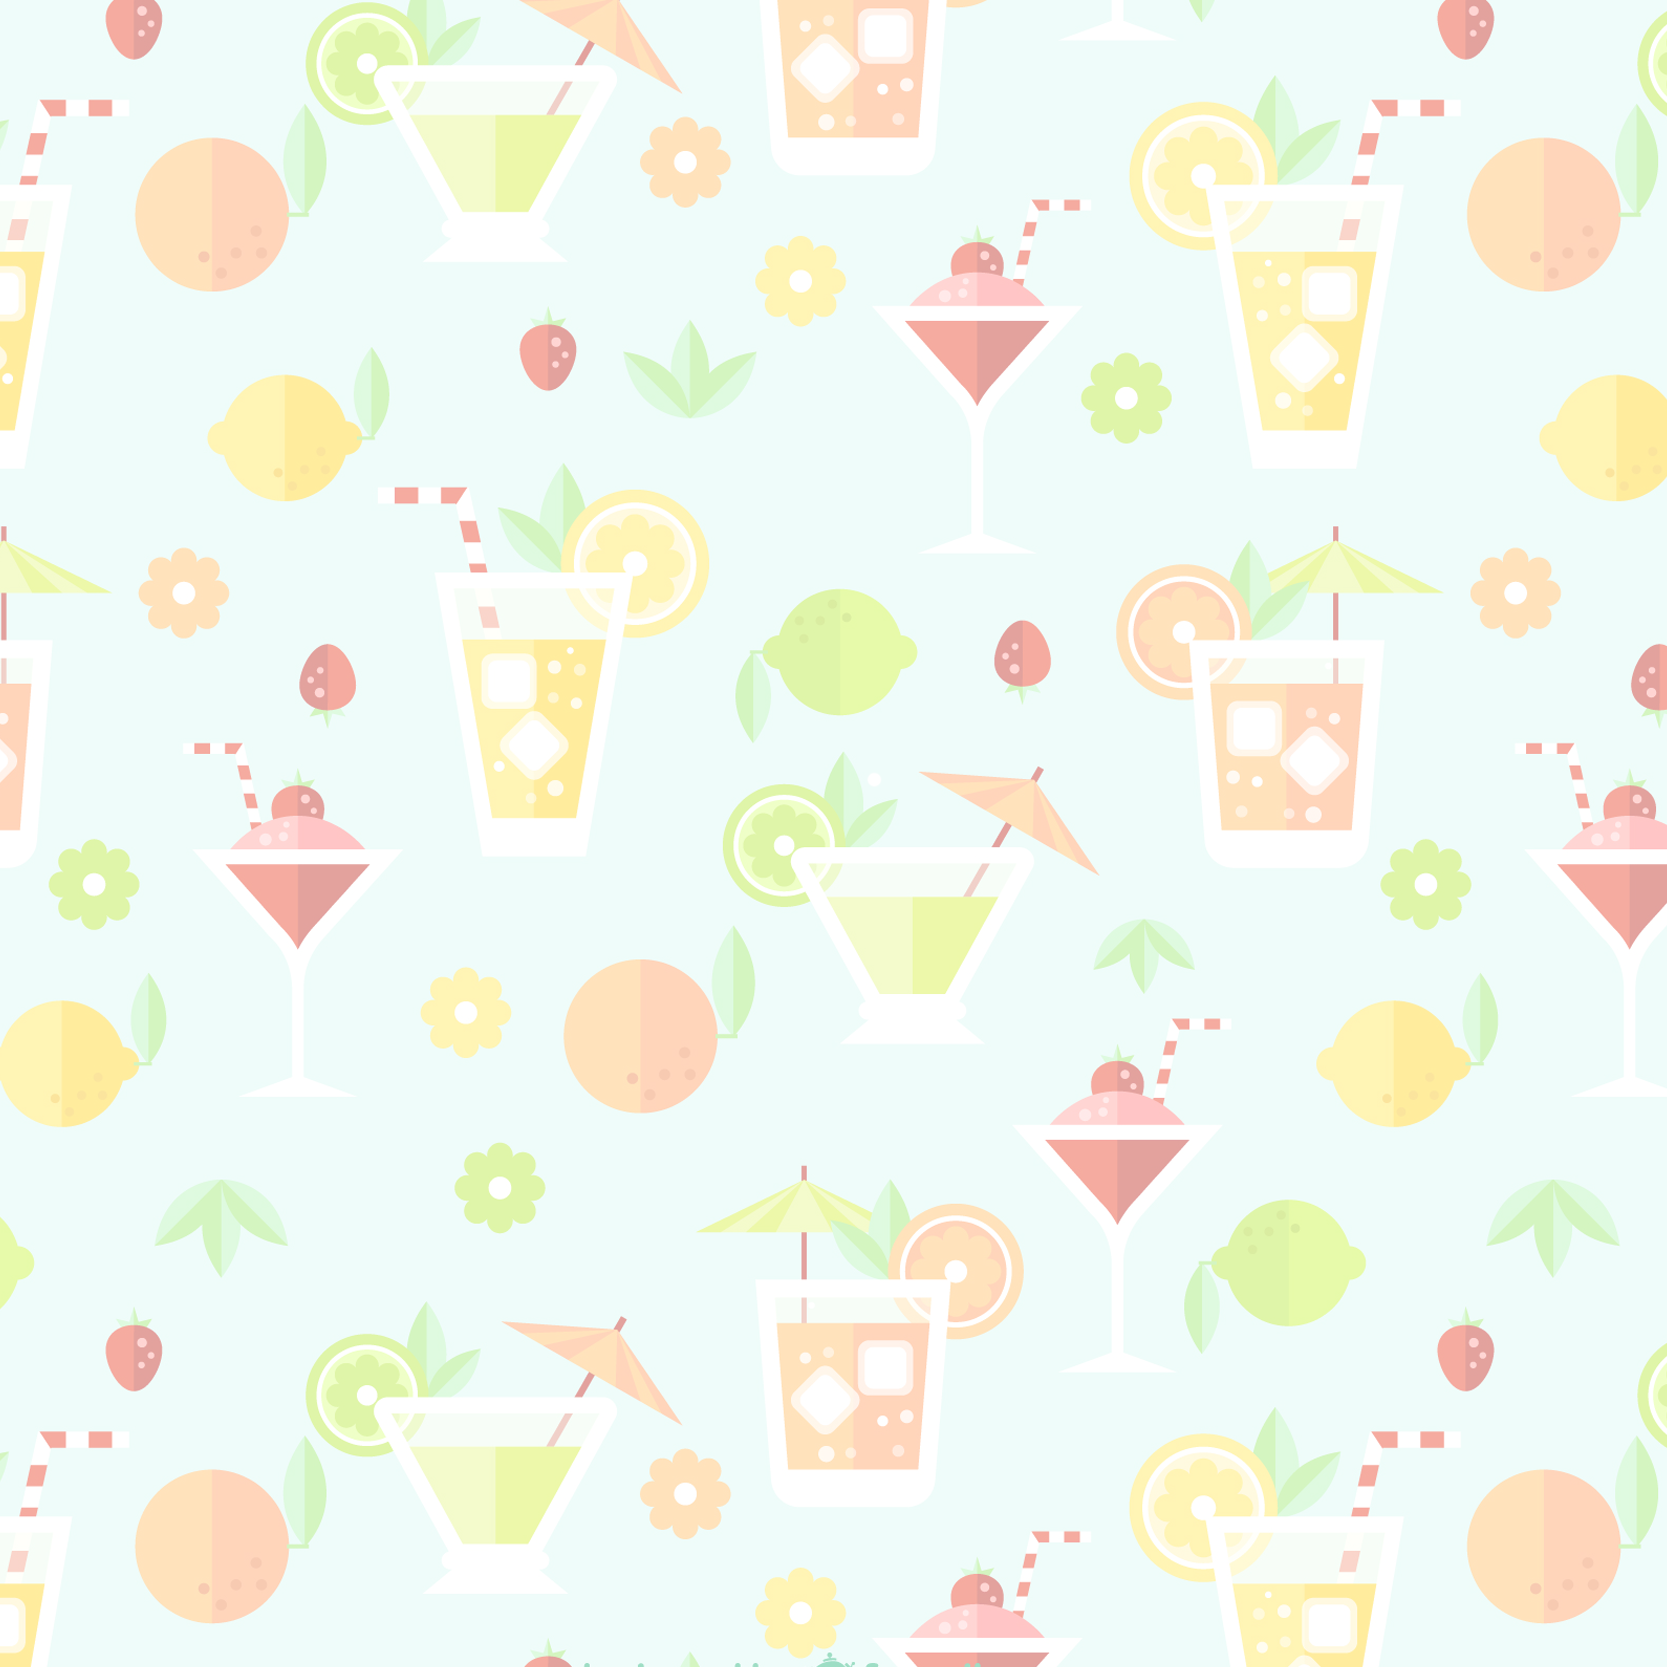
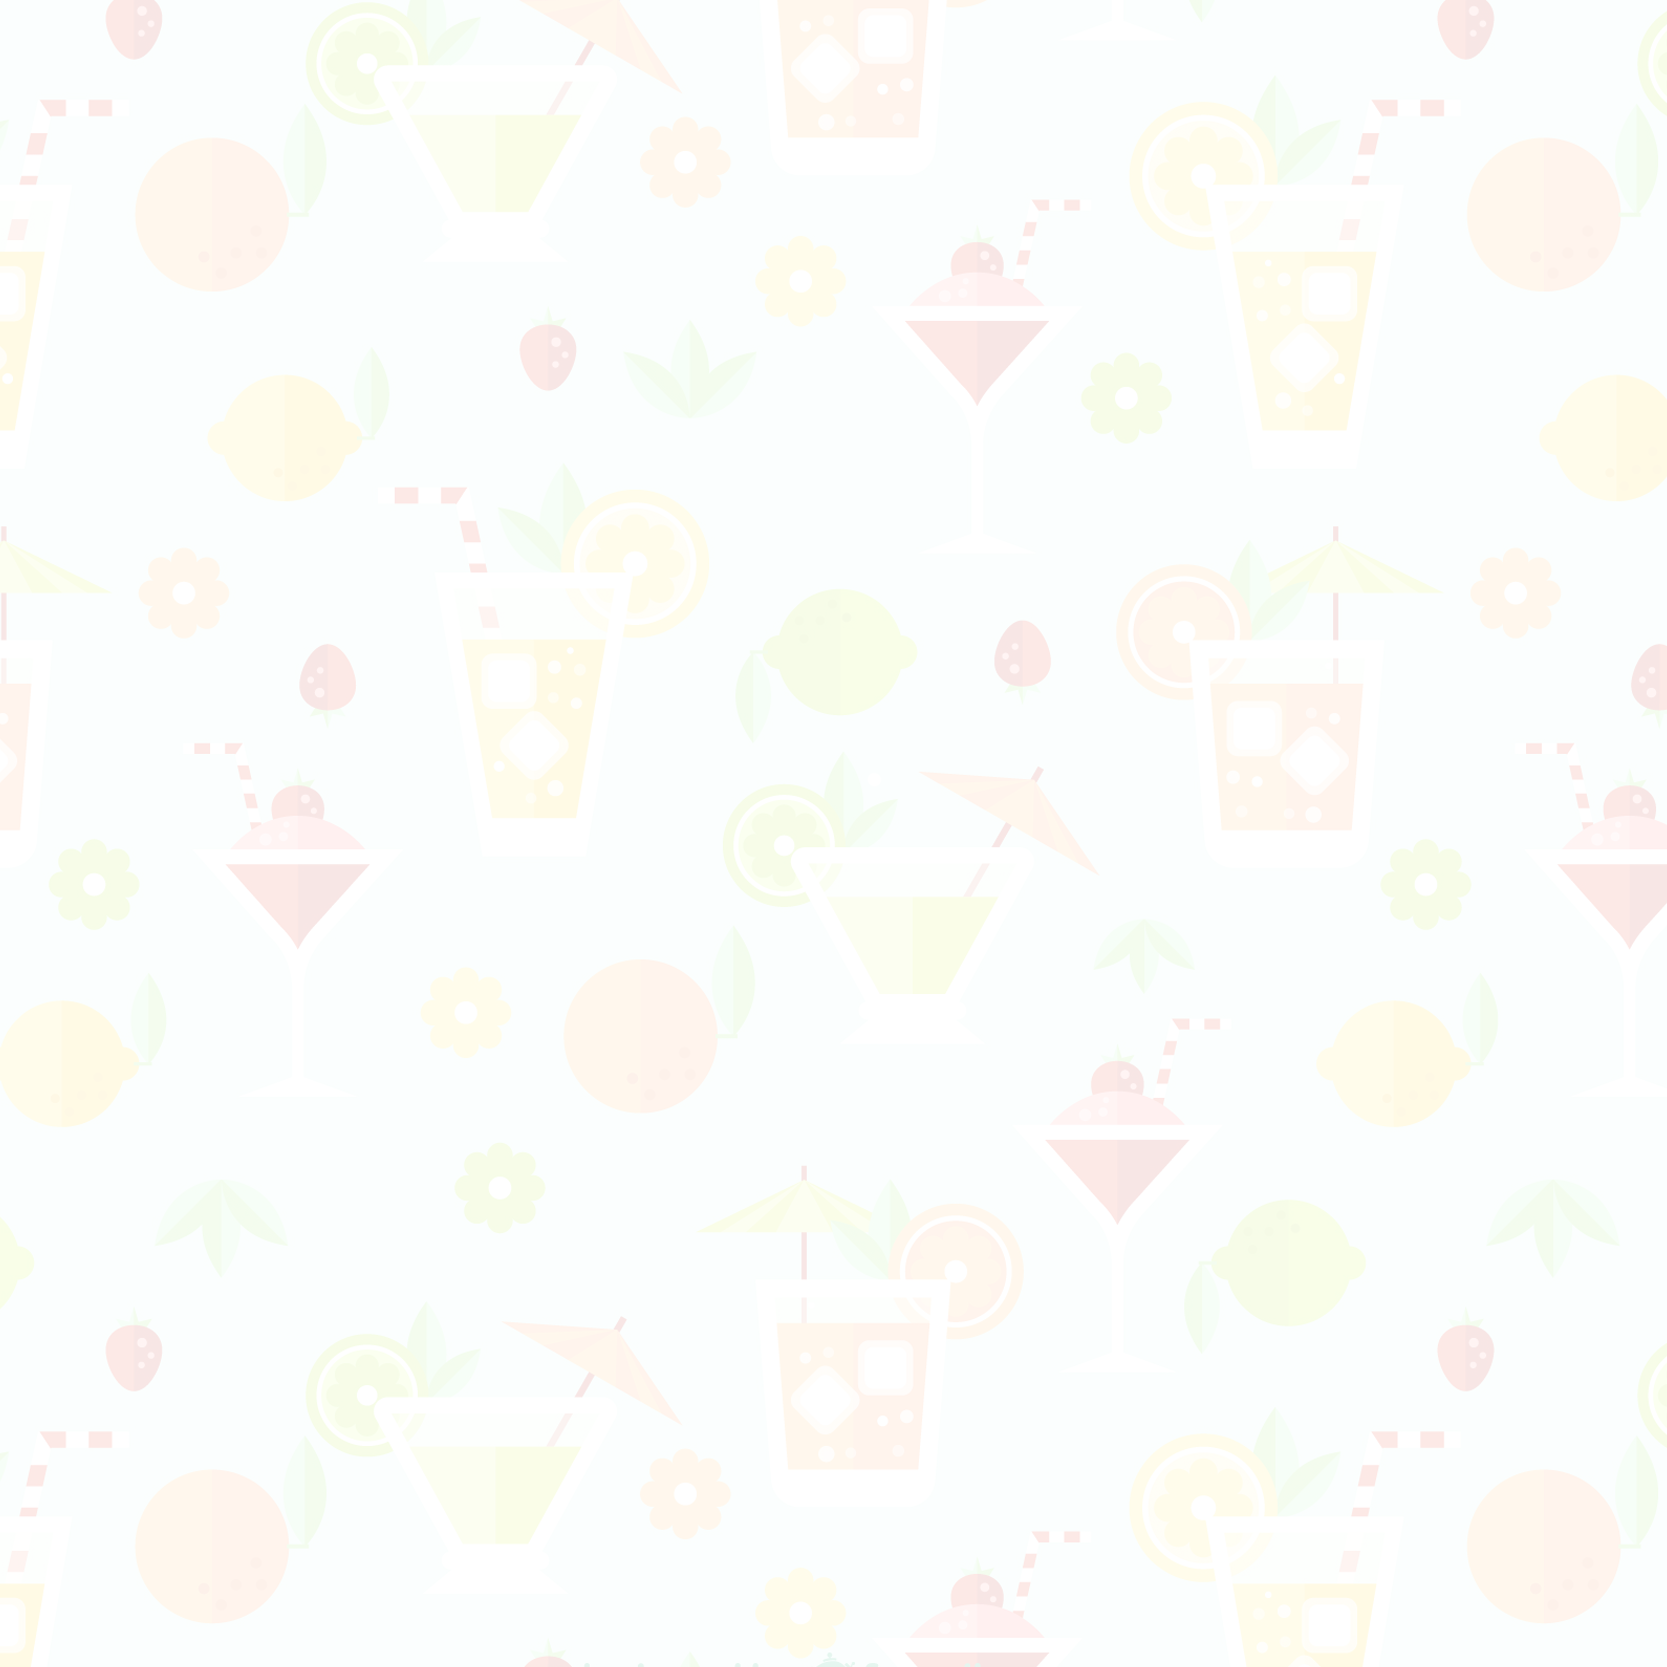
update-

diff --git a/templates/profil.html b/templates/profil.html
@@ -36,39 +36,11 @@
             </div>
         </form>
         <hr class="mt-4 mb-4">
-        <h3>Your cocktails</h3>
-        <div class=" container-fluid row mt-5 justify-content-center align-items-center">
-            <div class="col-3 grid-margin stretch-card">
-                <div class="cocktail_card card navlink rounded-4 p-0 overflow-hidden">
-                    <div class="card-body p-0">
-                        <div class="logo d-flex align-items-center justify-content-center"><i class="fas fa-martini-glass text-white"></i></div>
-                        <a href="{{url_for('cocktail.details_cocktail', cocktail_id=1)}}">
-                            <div class="rounded-4 overflow-hidden" >
-                                <img src="{{url_for('static', filename='images/bg.png')}}"  alt="CocktailGenius Logo"  >
-                            </div>
-                        </a>
-                        <h1 class="card-title mt-3 text-center">Americano</h1>
-                        <div class="d-flex justify-content-between  pe-3 ps-3">
-                            <p><i class="fas fa-martini-glass fs-3"></i> Facile</p>
-                            <small class=""><i class="fas fa-user-pen fs-1"></i> Publié par <a href="" class="text-warning fw-semibold">O. Joshua</a></small>
-                        </div>
-                        <div class="d-flex justify-content-between pe-3 ps-3">
-                            
-                            <p class="d-flex align-items-center">
-                                <i class="fas fa-star fs-3 text-warning"></i>
-                                <i class="fas fa-star  fs-3 text-warning"></i>
-                                <i class="fas fa-star  fs-3 text-warning"></i>
-                                <i class="fas fa-star-half-alt  fs-3 text-warning"></i>
-                                <i class="far fa-star  fs-3 text-warning me"></i>
-                                <span class="ms-1"> 25 avis</span>
-                            </p>
-                            <a href="cocktail/2" class="fs-2 mt-1 text-success"><i class="fas fa-eye"></i> Voir details</a>
-                        </div>
-                    </div>
-    
-                </div>
-            </div>
+        <div class="d-flex align-items-center">
+            <h3>Your cocktails</h3>
+            <small><a href="/user/{{ current_user.username }}/cocktails" class="ms-3">click here</a></small>
         </div>
+        
     </div>
 </div>
 

diff --git a/templates/signup.html b/templates/signup.html
@@ -13,11 +13,11 @@
             <!-- Left part with the logo -->
             <div class="col-lg-6 d-none d-lg-block login-logo-container">
                 <div class="overlay">
-                    <img src="{{url_for('static', filename='images/logos/logo.png')}}" alt="Platform logo" width="70%">
+                    <a href="/"><img src="{{url_for('static', filename='images/logos/logo.png')}}" class="fa-fade" alt="Platform logo" ></a>
                 </div>
             </div>
             <!-- Right part with the signup form -->
-            <div class="col-lg-6 bg-light" style="height: 100vh;">
+            <div class="col-lg-6 bg-light layout_bg" style="height: 100vh;">
                 <div class="d-flex justify-content-center align-items-center h-100">
                     <form action="/new_user" method="post" id="signup-form" class="bg-light-warning border p-4 rounded" style="width: 80%;" onsubmit="return validateSignupForm()">
                         <h2 class="mb-4">Sign Up</h2>

diff --git a/templates/login.html b/templates/login.html
@@ -13,11 +13,11 @@
             <!-- Left part with the logo -->
             <div class="col-lg-6 d-none d-lg-block login-logo-container">
                 <div class="overlay">
-                    <img src="{{url_for('static', filename='images/logos/logo.png')}}" class="fa-fade" alt="Platform Logo" width="70%">
+                    <a href="/"><img src="{{url_for('static', filename='images/logos/logo.png')}}" class="fa-fade" alt="Platform logo" ></a>
                 </div>
             </div>
             <!-- Right part with the login form -->
-            <div class="col-lg-6 bg-light" style="height: 100vh;">
+            <div class="col-lg-6 bg-light layout_bg" style="height: 100vh;">
                 <div class="d-flex justify-content-center align-items-center h-100">
                     <form class="bg-light-warning border p-4 rounded" style="width: 80%;" action="/user_login" method="post">
                         <h2 class="mb-4">Login</h2>

diff --git a/templates/layouts.html b/templates/layouts.html
@@ -6,7 +6,7 @@
     <title>Cocktail Genius - {{title}}</title>
     <link href="{{url_for('static', filename='css/main.css')}}" rel="stylesheet">
 </head>
-<body>
+<body class="layout_bg">
     <header class="pb-0 card bg-warning pt-0 navbar navbar-expand-sm navbar-light justify-content-between align-items-center fixed-top">
         <div class="container-fluid p-0 d-flex ">
             <a class="navbar-brand " href="/"><img src="{{url_for('static', filename='images/logos/logo.png')}}" alt="CocktailGenius Logo" height="50"></a>
@@ -44,7 +44,7 @@
     <div style="height: 40px;">
     </div>
 
-    <div class="bg-light-succss pt-4" style="min-height: calc(100vh - 43px);">
+    <div class="bg-light-succss pt-4 " style="min-height: calc(100vh - 43px);">
         {% block content %}
         
         {% endblock%}

diff --git a/static/css/main.css b/static/css/main.css
@@ -10,6 +10,14 @@
     z-index: 1000;
 }
 
+.layout_bg {
+    background-image: url('../images/bg2.png ');
+    background-repeat: repeat;
+    background-size: cover;
+    background-position: center;
+    height: auto;
+    position: relative;
+}
 
 header a {
     color: white;
@@ -156,6 +164,10 @@ header a:hover{
     background-image: url('../images/bg.png '); 
     background-size: cover;
     background-position: center;
+}
+
+.login-logo-container img{
+    height: 150px;
 }
 
 #profile_avatar {
